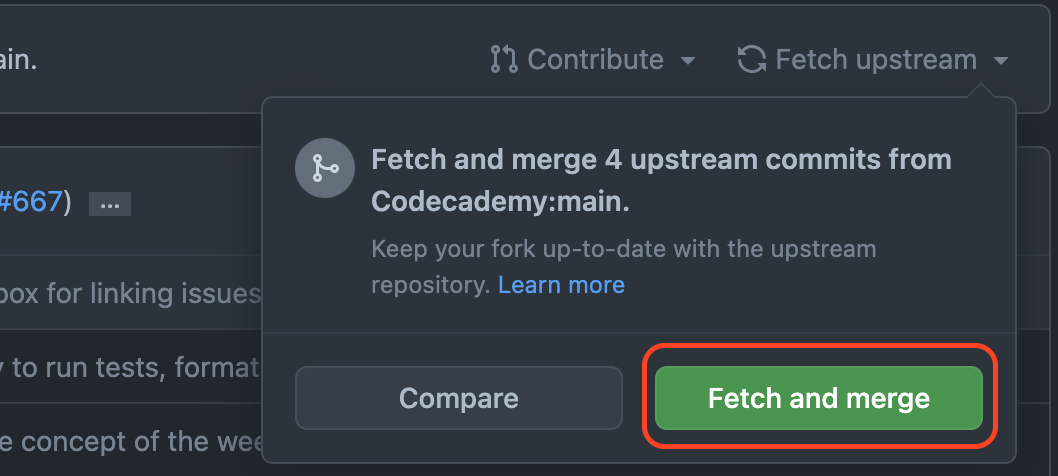
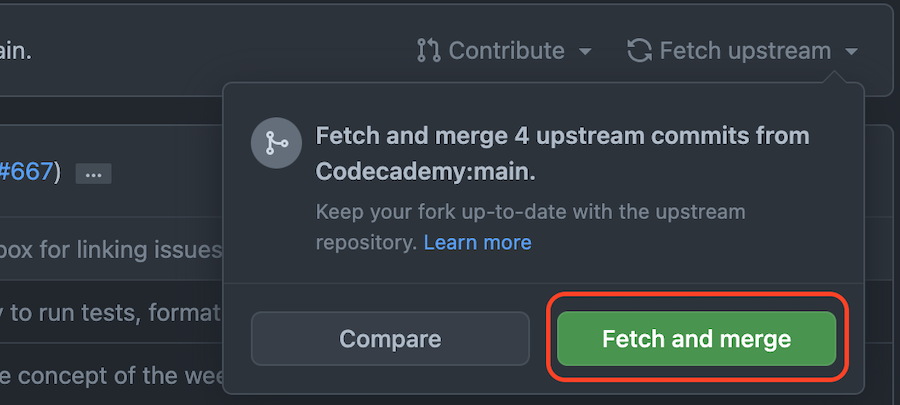
refactor: fixed image link; resized images

diff --git a/.github/CONTRIBUTING.md b/.github/CONTRIBUTING.md
@@ -121,7 +121,7 @@ To link your Codecademy user profile to GitHub:
 
 To keep your PR branch up to date navigate to the branch on your fork. Then press `Fetch upstream` and `Fetch and merge`.
 
-![Image of where the `Fetch upstream` button](https://raw.githubusercontent.com/Codecademy/docs/main/media/branch-up-tp-date-1.png)
+![Image of where the `Fetch upstream` button](https://raw.githubusercontent.com/Codecademy/docs/main/media/branch-up-to-date-1.png)
 
 ![Image of the `Fetch and merge` button](https://raw.githubusercontent.com/Codecademy/docs/main/media/branch-up-to-date-2.png)
 
